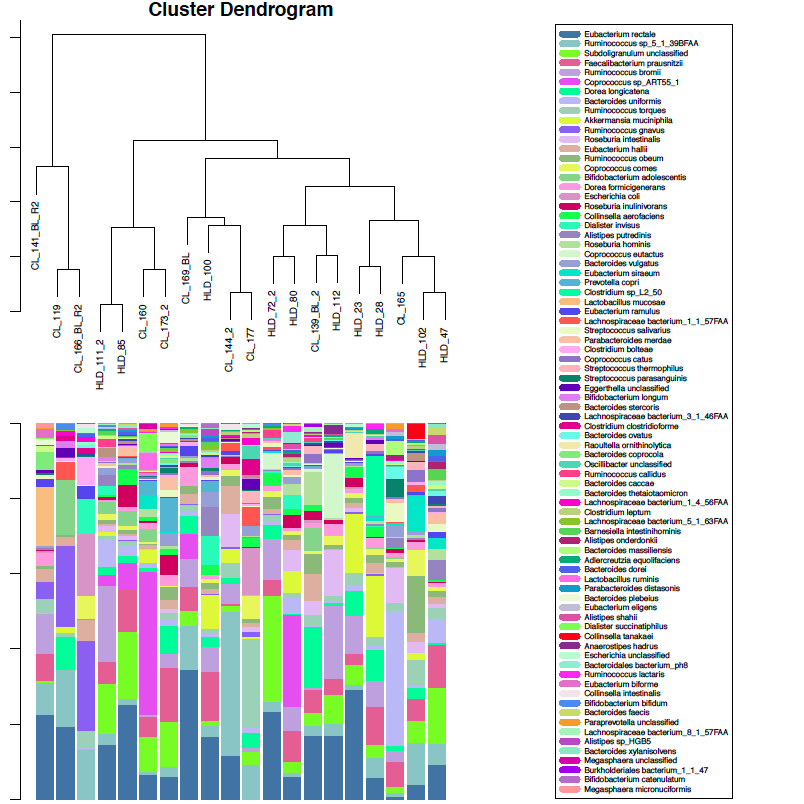
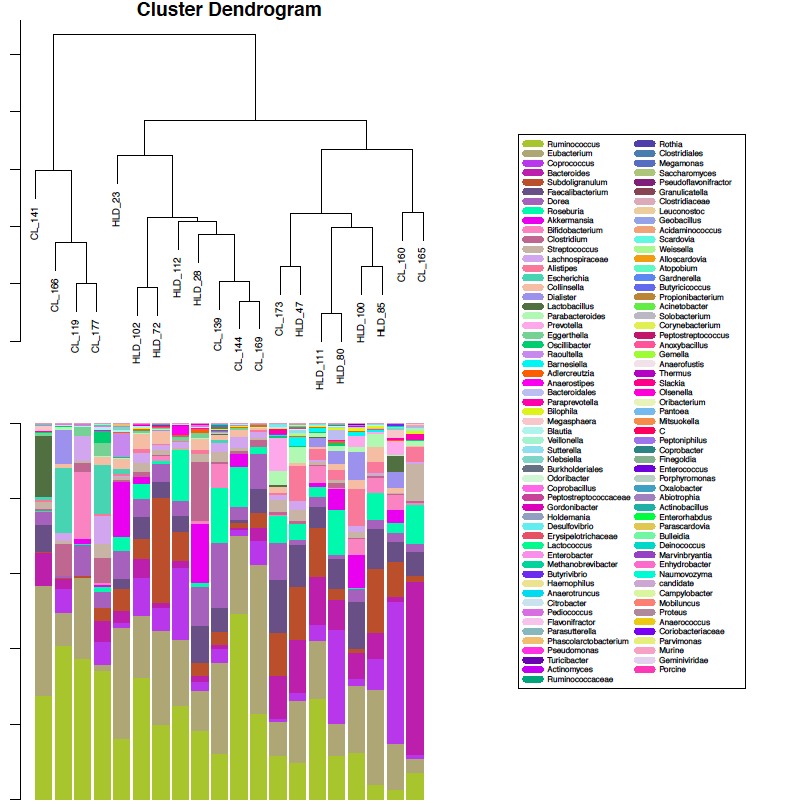
replaced metaphlan baprlot

diff --git a/nafld.tex b/nafld.tex
@@ -377,12 +377,12 @@ Family XIII & Incertae Sedis & $91$ & $-0.985$ & $-0.563$ & $-0.622$ & NA & NA \
 
 We ran the metagenomic sequences through MetaPhlAn to infer what the results would be with 16S rRNA gene tag sequencing, so that we could compare with our empirical 16S rRNA gene tag sequencing results. The effect size Spearman coefficient (Fig.~\ref{nafld_metaphlan_effect}) is smaller than the effect size coefficient between the healthy vs. SS and healthy vs. NASH comparison, even though in this case the same samples are being compared.
 
-The operational taxonomic units in the MetaPhlAn and 16S rRNA gene analysis were derived from different databases, and could not be compared directly, so the effect size comparison in Fig.~\ref{nafld_metaphlan_effect} was done at the genus level. Note that OTUs can reside in between genuses, such that the genus classificaiton is not perfectly concordant between the two comparisons.
+The operational taxonomic units in the MetaPhlAn and 16S rRNA gene analysis were derived from different databases, and could not be compared directly, so the effect size comparison in Fig.~\ref{nafld_metaphlan_effect} was done at the genus level. Note that OTUs can reside in between genuses, such that the genus classificaiton is not perfectly concordant between the two comparisons. The top four relatively abundant genera from the MetaPhlAn analysis were \textit{Ruminococcus}, \textit{Eubacterium}, \textit{Coprococcus}, and \textit{Bacteroides}. Only \textit{Bacteroides} is also on the top four relatively abundant genera from the 16S rRNA gene tag sequencing experiment.
 
 \begin{figure}[h]
 \begin{center}
 \includegraphics[width=0.95\textwidth]{metaphlan_barplot_dendogram.png}
-\caption{\textbf{Taxa barplot dendogram derived from MetaPhlAn.} The metagenomic reads were input into MetaPhlAn to generate a count table. The taxa in the count table were filtered such that only taxa with at least 1\% abundance in any sample was kept. Note that three samples were output to have exactly the same counts (HLD\_80, HLD\_85, and CL\_165), despite not all being in the same condition.}
+\caption{\textbf{Taxa barplot dendogram derived from MetaPhlAn.} The metagenomic reads were input into MetaPhlAn to generate a count table. The taxa in the count table were filtered such that only taxa with at least 1\% abundance in any sample was kept. In this barplot, each bar represents one sample, and each color represents one genus, with the size of the colored segments corresponding with the relative abundance of the genus.}
 \end{center}
 \label{nafld_metaphlan_barplot}
 \end{figure}
